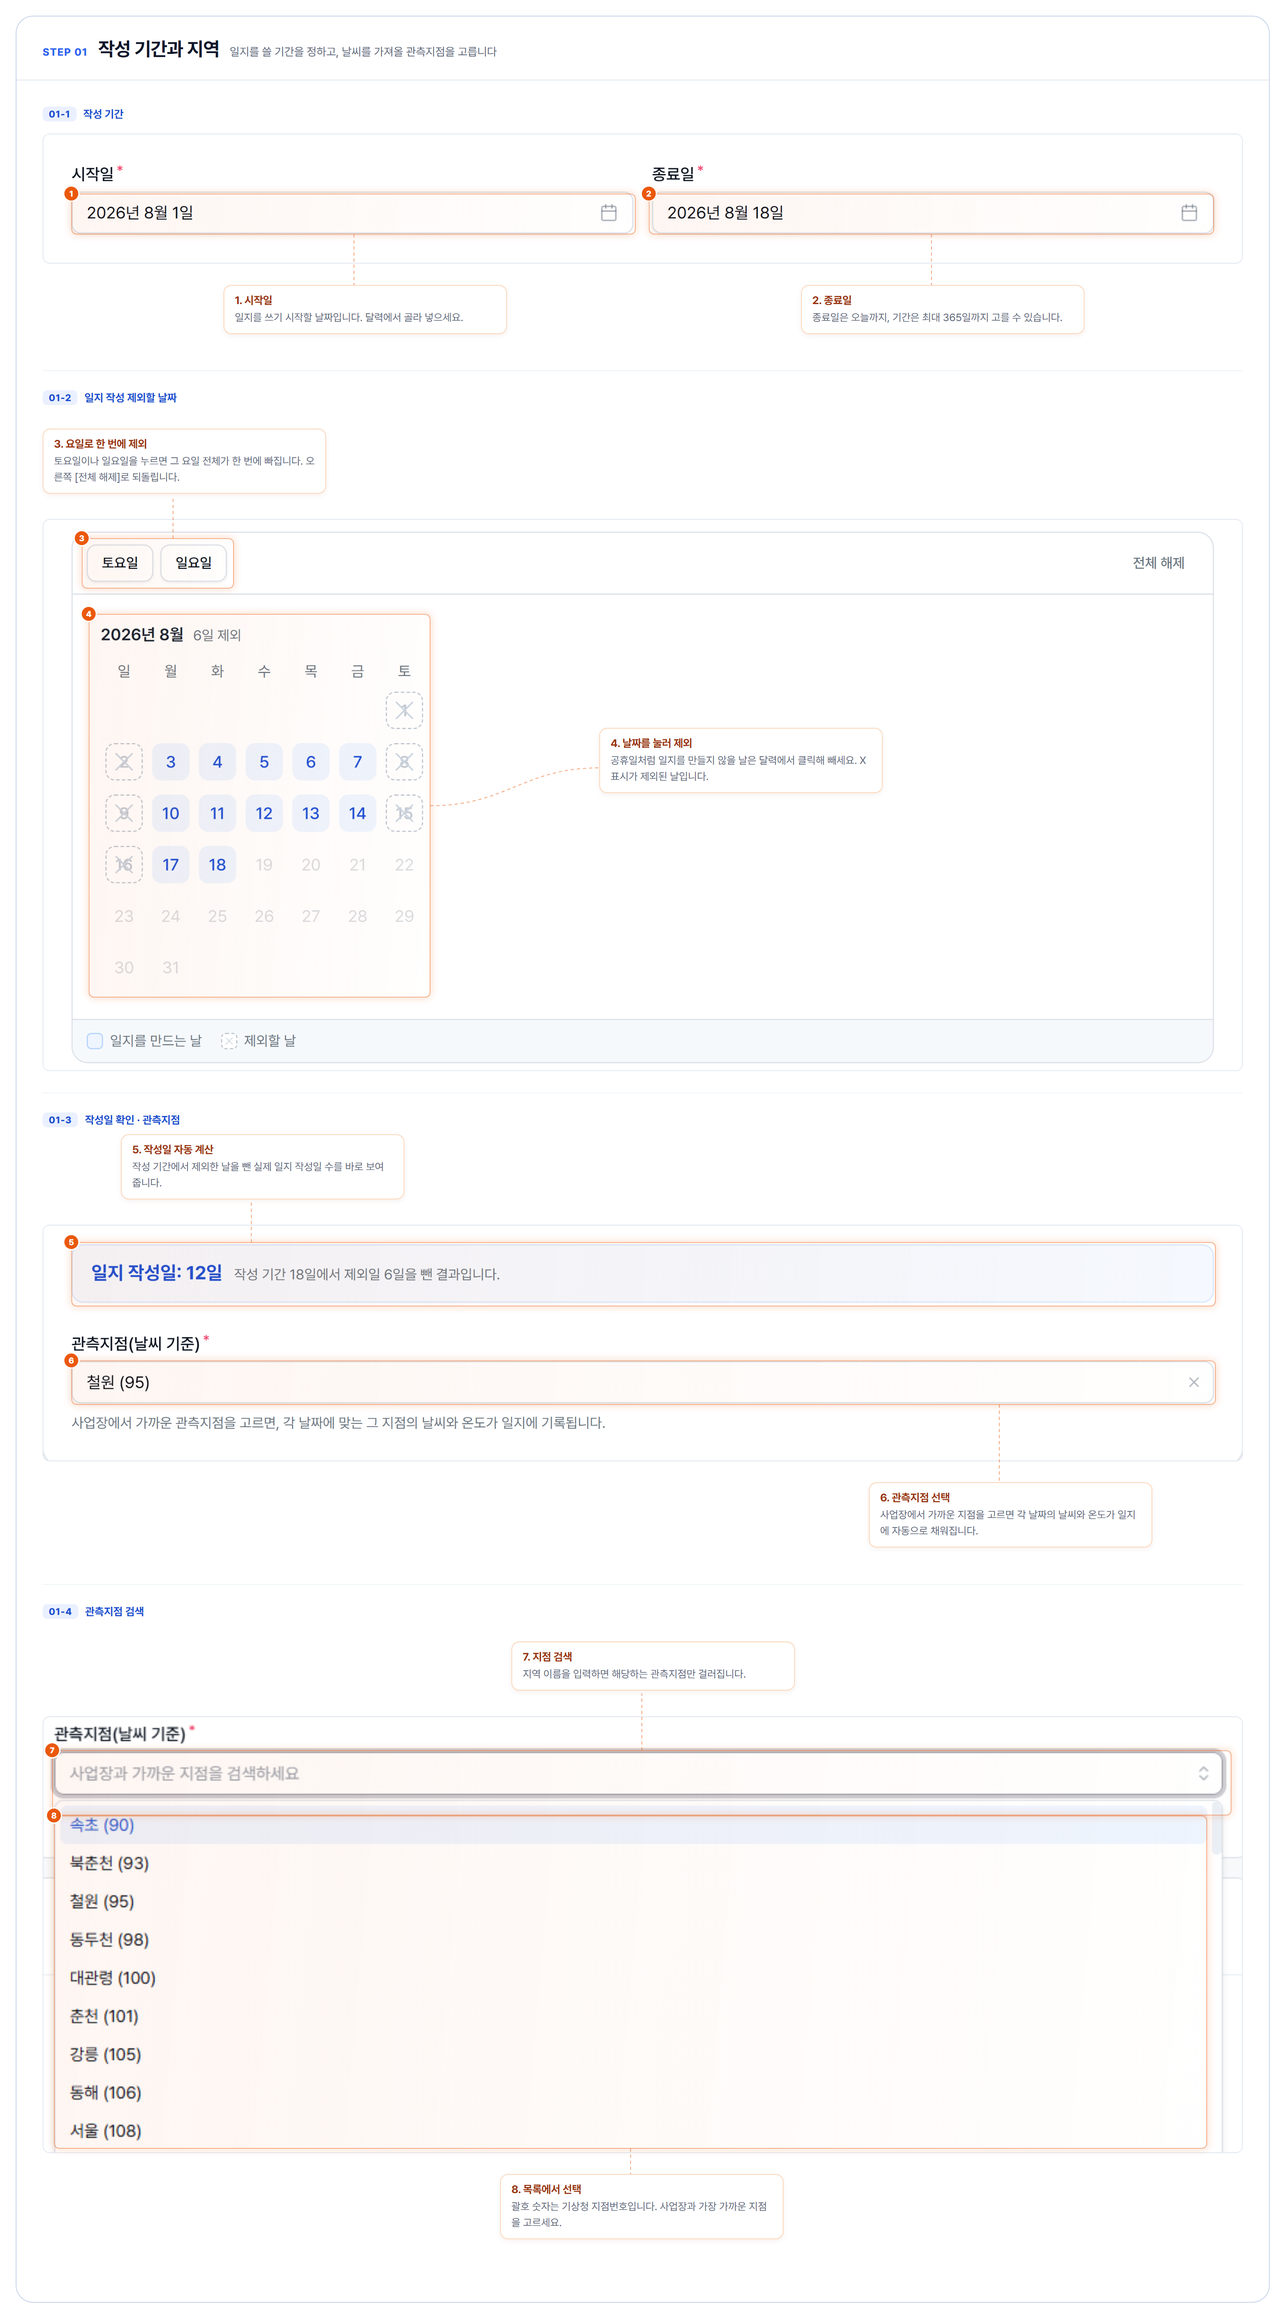
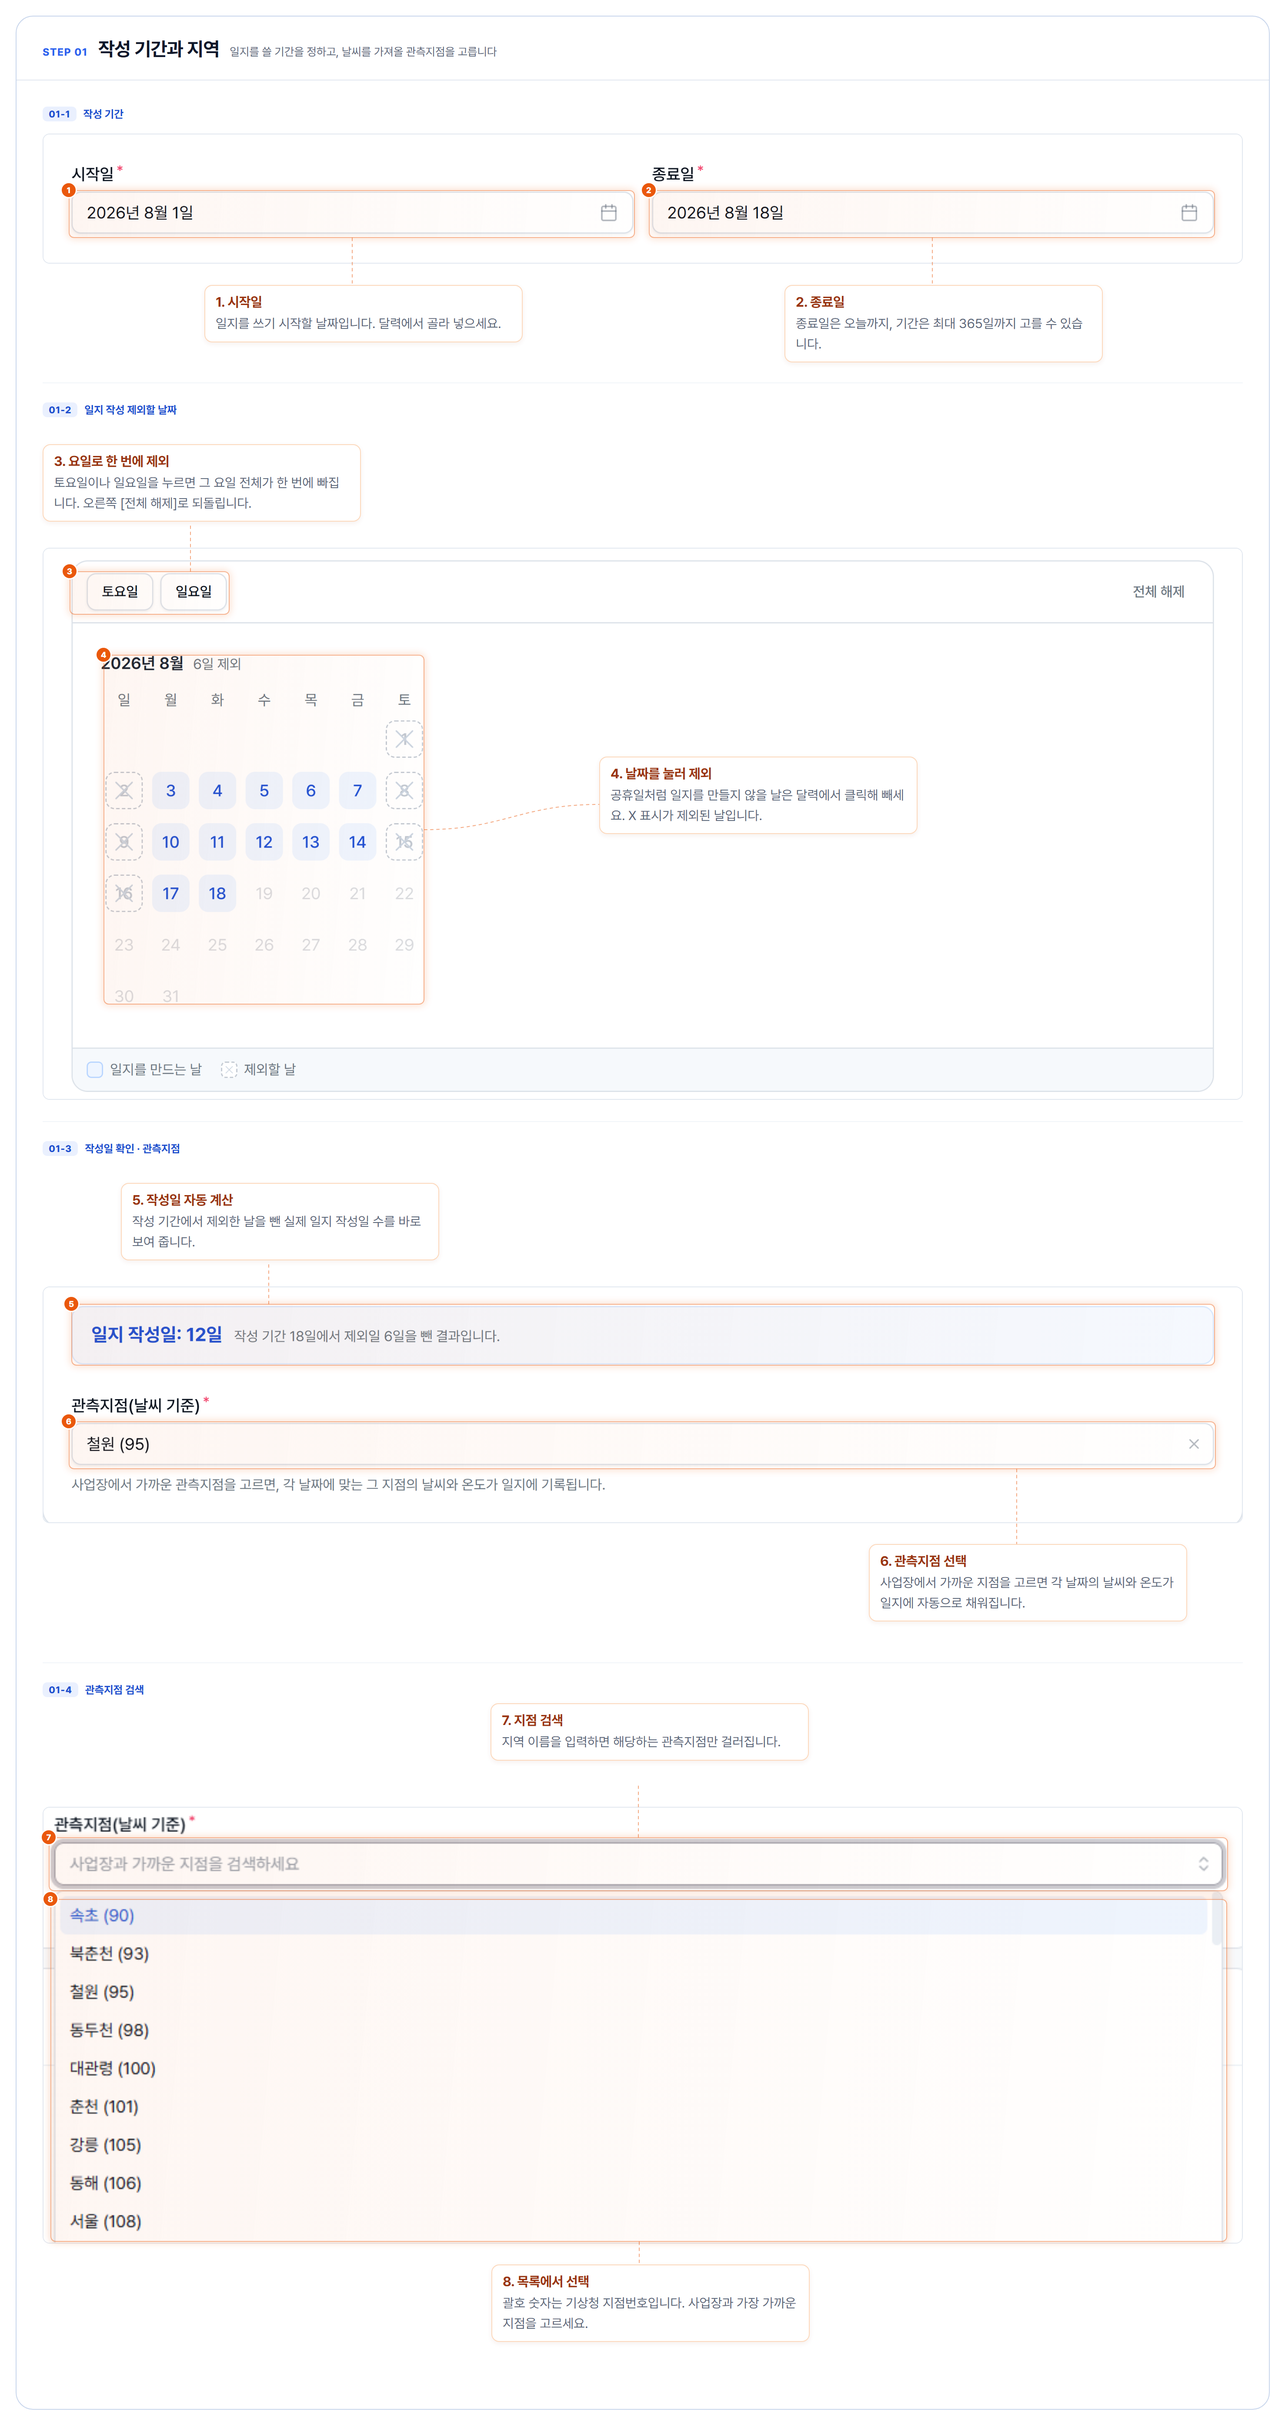
fix: step01 박스 실측 대칭 · 콜아웃 글씨 15px
- 모든 강조 박스를 요소 실측 경계로 교체(snap=False), 사면 2px 균일
- 콜아웃 h3 15.5/본문 15px, CW 340·CPL 18·LH 24 (tb 전용 estH2)

diff --git a/인허가 서대리_미리보기 페이지 작성/폐수일지/_tmp_final/_x.html b/인허가 서대리_미리보기 페이지 작성/폐수일지/_tmp_final/_x.html
@@ -66,6 +66,9 @@
 .ag{width:1440px}
 .ag-head{padding:24px 30px 22px}
 .ag-head h2{font-size:22px}
+/* 안내 문구(콜아웃)는 갑지보다 3px 크게 */
+.ag-co h3{font-size:15.5px;margin:0 0 4px}
+.ag-co p{font-size:15px}
 
 html,body{margin:0;padding:36px;background:#fff}</style></head><body><div id="root"></div>
 <script>/* annotation-guide.js · 데이터(JSON) → 주석 패널 HTML 렌더러. 의존성 없음.
@@ -206,6 +209,9 @@ html,body{margin:0;padding:36px;background:#fff}</style></head><body><div id="ro
      위 밴드 콜아웃은 estH 추정으로 놓고 AG_fixBands() 가 실측 높이로 레인 아래 변에 다시 붙인다. */
   function tbPanel(sec, group, gi) {
     const { IW, CW, LANE, CPL } = LAYOUT.tb;
+    // tb 는 콜아웃 글씨를 키울 수 있어(LH=줄높이) 높이 추정을 따로 한다
+    const LH = LAYOUT.tb.LH || 19;
+    const estH2 = (t) => 38 + Math.max(1, Math.ceil(String(t).length / CPL)) * LH;
     const k = IW / group.crop[2], IH = Math.round(group.crop[3] * k);
     const rows = toRows(sec, group, k);
     const free = rows.filter((r) => r.f.cpos);
@@ -217,7 +223,7 @@ html,body{margin:0;padding:36px;background:#fff}</style></head><body><div id="ro
       rs.forEach((r) => {
         const want = r.f.cox !== undefined ? r.f.cox
           : Math.max(0, Math.min(IW - CW, Math.round(r.x + r.w / 2 - CW / 2)));
-        r.ch = estH(r.f.desc, CPL);
+        r.ch = estH2(r.f.desc);
         let li = 0;
         for (;; li++) { const l = lanes[li] || (lanes[li] = { right: -12, h: 0 }); if (want >= l.right + 12) break; }
         const l = lanes[li];
@@ -239,7 +245,7 @@ html,body{margin:0;padding:36px;background:#fff}</style></head><body><div id="ro
     B.rs.forEach((r) => { r.ct = B.lanes[r.lane].top; });
     let H = B.lanes.length ? ly - 14 : iy + IH;
     free.forEach((r) => {
-      r.ch = estH(r.f.desc, CPL);
+      r.ch = estH2(r.f.desc);
       r.cx = r.f.cpos[0]; r.ct = iy + r.f.cpos[1];
       H = Math.max(H, r.ct + r.ch);
     });
@@ -384,4 +390,4 @@ html,body{margin:0;padding:36px;background:#fff}</style></head><body><div id="ro
   global.AG_NUM = NUM;
 })(typeof window !== 'undefined' ? window : globalThis);
 </script>
-<script>AG_LAYOUT.tb.IW=1378;AG_LAYOUT.tb.CW=300;AG_LAYOUT.tb.LANE=26;AG_LAYOUT.tb.CPL=20;const DATA={"key": "s01", "src": "폐수일지-입력후1.png", "step": "STEP 01", "title": "작성 기간과 지역", "sub": "일지를 쓸 기간을 정하고, 날씨를 가져올 관측지점을 고릅니다", "xcrop": [438, 1464], "f": [{"b": [463, 544, 480, 32], "band": "bottom", "title": "시작일", "desc": "일지를 쓰기 시작할 날짜입니다. 달력에서 골라 넣으세요."}, {"b": [958, 544, 481, 32], "band": "bottom", "title": "종료일", "desc": "종료일은 오늘까지, 기간은 최대 365일까지 고를 수 있습니다."}, {"b": [472, 681, 127, 40], "snap": false, "band": "top", "title": "요일로 한 번에 제외", "desc": "토요일이나 일요일을 누르면 그 요일 전체가 한 번에 빠집니다. 오른쪽 [전체 해제]로 되돌립니다."}, {"b": [478, 746, 290, 325], "snap": false, "cpos": [640, 240], "title": "날짜를 눌러 제외", "desc": "공휴일처럼 일지를 만들지 않을 날은 달력에서 클릭해 빼세요. X 표시가 제외된 날입니다."}, {"b": [463, 1145, 977, 52], "band": "top", "cox": 90, "title": "작성일 자동 계산", "desc": "작성 기간에서 제외한 날을 뺀 실제 일지 작성일 수를 바로 보여 줍니다."}, {"b": [463, 1246, 977, 35], "band": "bottom", "cox": 950, "title": "관측지점 선택", "desc": "사업장에서 가까운 지점을 고르면 각 날짜의 날씨와 온도가 일지에 자동으로 채워집니다."}, {"b": [9, 29, 984, 52], "src": "1-관측지점자료.PNG", "scale": 1, "band": "top", "title": "지점 검색", "desc": "지역 이름을 입력하면 해당하는 관측지점만 걸러집니다."}, {"b": [10, 84, 962, 276], "snap": false, "src": "1-관측지점자료.PNG", "scale": 1, "band": "bottom", "title": "목록에서 선택", "desc": "괄호 숫자는 기상청 지점번호입니다. 사업장과 가장 가까운 지점을 고르세요."}], "g": [{"f": [0, 1], "mode": "tb", "label": "작성 기간", "ycrop": [492, 602], "img": "s01-1.png", "crop": [438, 492, 1026, 110]}, {"f": [2, 3], "mode": "tb", "label": "일지 작성 제외할 날짜", "ycrop": [664, 1135], "img": "s01-2.png", "crop": [438, 664, 1026, 471]}, {"f": [4, 5], "mode": "tb", "label": "작성일 확인 · 관측지점", "ycrop": [1129, 1330], "img": "s01-3.png", "crop": [438, 1129, 1026, 201]}, {"f": [6, 7], "mode": "tb", "label": "관측지점 검색", "src": "1-관측지점자료.PNG", "scale": 1, "ycrop": [0, 364], "img": "s01-4.png", "crop": [0, 0, 1003, 364]}], "cw": 1650, "ch": 5461, "imgBase": "file:///C:/Users/USER/OneDrive/바탕 화면/py/tools/인허가 서대리_미리보기 페이지 작성/폐수일지/미리보기_폐수일지_최종/img/"};document.getElementById("root").innerHTML=renderGuideSection(DATA);AG_fixWires();AG_fixBands();AG_fixFlows(document, DATA);</script></body></html>
+<script>AG_LAYOUT.tb.IW=1378;AG_LAYOUT.tb.CW=340;AG_LAYOUT.tb.LANE=26;AG_LAYOUT.tb.CPL=18;AG_LAYOUT.tb.LH=24;const DATA={"key": "s01", "src": "폐수일지-입력후1.png", "step": "STEP 01", "title": "작성 기간과 지역", "sub": "일지를 쓸 기간을 정하고, 날씨를 가져올 관측지점을 고릅니다", "xcrop": [438, 1464], "f": [{"b": [461, 541, 482, 38], "snap": false, "band": "bottom", "title": "시작일", "desc": "일지를 쓰기 시작할 날짜입니다. 달력에서 골라 넣으세요."}, {"b": [958, 541, 482, 38], "snap": false, "band": "bottom", "title": "종료일", "desc": "종료일은 오늘까지, 기간은 최대 365일까지 고를 수 있습니다."}, {"b": [462, 685, 134, 34], "snap": false, "band": "top", "title": "요일로 한 번에 제외", "desc": "토요일이나 일요일을 누르면 그 요일 전체가 한 번에 빠집니다. 오른쪽 [전체 해제]로 되돌립니다."}, {"b": [491, 756, 272, 296], "snap": false, "cpos": [640, 240], "title": "날짜를 눌러 제외", "desc": "공휴일처럼 일지를 만들지 않을 날은 달력에서 클릭해 빼세요. X 표시가 제외된 날입니다."}, {"b": [463, 1145, 976, 50], "snap": false, "band": "top", "cox": 90, "title": "작성일 자동 계산", "desc": "작성 기간에서 제외한 날을 뺀 실제 일지 작성일 수를 바로 보여 줍니다."}, {"b": [461, 1245, 979, 38], "snap": false, "band": "bottom", "cox": 950, "title": "관측지점 선택", "desc": "사업장에서 가까운 지점을 고르면 각 날짜의 날씨와 온도가 일지에 자동으로 채워집니다."}, {"b": [6, 26, 984, 42], "snap": false, "src": "1-관측지점자료.PNG", "scale": 1, "band": "top", "title": "지점 검색", "desc": "지역 이름을 입력하면 해당하는 관측지점만 걸러집니다."}, {"b": [7, 78, 982, 284], "snap": false, "src": "1-관측지점자료.PNG", "scale": 1, "band": "bottom", "title": "목록에서 선택", "desc": "괄호 숫자는 기상청 지점번호입니다. 사업장과 가장 가까운 지점을 고르세요."}], "g": [{"f": [0, 1], "mode": "tb", "label": "작성 기간", "ycrop": [492, 602], "img": "s01-1.png", "crop": [438, 492, 1026, 110]}, {"f": [2, 3], "mode": "tb", "label": "일지 작성 제외할 날짜", "ycrop": [664, 1135], "img": "s01-2.png", "crop": [438, 664, 1026, 471]}, {"f": [4, 5], "mode": "tb", "label": "작성일 확인 · 관측지점", "ycrop": [1129, 1330], "img": "s01-3.png", "crop": [438, 1129, 1026, 201]}, {"f": [6, 7], "mode": "tb", "label": "관측지점 검색", "src": "1-관측지점자료.PNG", "scale": 1, "ycrop": [0, 364], "img": "s01-4.png", "crop": [0, 0, 1003, 364]}], "cw": 1650, "ch": 5461, "imgBase": "file:///C:/Users/USER/OneDrive/바탕 화면/py/tools/인허가 서대리_미리보기 페이지 작성/폐수일지/미리보기_폐수일지_최종/img/"};document.getElementById("root").innerHTML=renderGuideSection(DATA);AG_fixWires();AG_fixBands();AG_fixFlows(document, DATA);</script></body></html>

diff --git a/인허가 서대리_미리보기 페이지 작성/갑지/자료/화면캡처/annotate/work/annotation-guide.js b/인허가 서대리_미리보기 페이지 작성/갑지/자료/화면캡처/annotate/work/annotation-guide.js
@@ -136,6 +136,9 @@
      위 밴드 콜아웃은 estH 추정으로 놓고 AG_fixBands() 가 실측 높이로 레인 아래 변에 다시 붙인다. */
   function tbPanel(sec, group, gi) {
     const { IW, CW, LANE, CPL } = LAYOUT.tb;
+    // tb 는 콜아웃 글씨를 키울 수 있어(LH=줄높이) 높이 추정을 따로 한다
+    const LH = LAYOUT.tb.LH || 19;
+    const estH2 = (t) => 38 + Math.max(1, Math.ceil(String(t).length / CPL)) * LH;
     const k = IW / group.crop[2], IH = Math.round(group.crop[3] * k);
     const rows = toRows(sec, group, k);
     const free = rows.filter((r) => r.f.cpos);
@@ -147,7 +150,7 @@
       rs.forEach((r) => {
         const want = r.f.cox !== undefined ? r.f.cox
           : Math.max(0, Math.min(IW - CW, Math.round(r.x + r.w / 2 - CW / 2)));
-        r.ch = estH(r.f.desc, CPL);
+        r.ch = estH2(r.f.desc);
         let li = 0;
         for (;; li++) { const l = lanes[li] || (lanes[li] = { right: -12, h: 0 }); if (want >= l.right + 12) break; }
         const l = lanes[li];
@@ -169,7 +172,7 @@
     B.rs.forEach((r) => { r.ct = B.lanes[r.lane].top; });
     let H = B.lanes.length ? ly - 14 : iy + IH;
     free.forEach((r) => {
-      r.ch = estH(r.f.desc, CPL);
+      r.ch = estH2(r.f.desc);
       r.cx = r.f.cpos[0]; r.ct = iy + r.f.cpos[1];
       H = Math.max(H, r.ct + r.ch);
     });

diff --git a/인허가 서대리_미리보기 페이지 작성/폐수일지/sections.py b/인허가 서대리_미리보기 페이지 작성/폐수일지/sections.py
@@ -13,6 +13,9 @@
   - 섹션 카드 세로 경계(입력후1, CSS): ①작성기간 268~1334 ②기본설정 1350~1995
     ③시설가동 2011~2966 ④용수폐수 2983~3667 ⑤전력 3684~4111 ⑥슬러지 4128~5316
 
+박스 좌표 원칙: 요소의 **실측 경계**를 그대로 넣는다(스냅 의존 금지 · snap=False).
+  렌더러가 사면에 균일하게 2px 를 띄우므로, 실측만 정확하면 여백이 대칭이 된다.
+
 항목(f) 옵션 · tb 모드
   b=[x,y,w,h]  대상 시드(스냅으로 보정). snap=False 면 그대로.
   band='top'|'bottom'  콜아웃을 위/아래 밴드 어디에 둘지. 생략하면 자동.
@@ -35,26 +38,26 @@ S = [
       xcrop=(438, 1464),
       f=[
         # ── 패널 1 · 작성 기간 ──────────────────────────────
-        dict(b=[463, 544, 480, 32], band='bottom', title='시작일',
+        dict(b=[461, 541, 482, 38], snap=False, band='bottom', title='시작일',
              desc='일지를 쓰기 시작할 날짜입니다. 달력에서 골라 넣으세요.'),
-        dict(b=[958, 544, 481, 32], band='bottom', title='종료일',
+        dict(b=[958, 541, 482, 38], snap=False, band='bottom', title='종료일',
              desc='종료일은 오늘까지, 기간은 최대 365일까지 고를 수 있습니다.'),
         # ── 패널 2 · 제외일 달력 ────────────────────────────
-        dict(b=[472, 681, 127, 40], snap=False, band='top', title='요일로 한 번에 제외',
+        dict(b=[462, 685, 134, 34], snap=False, band='top', title='요일로 한 번에 제외',
              desc='토요일이나 일요일을 누르면 그 요일 전체가 한 번에 빠집니다. 오른쪽 [전체 해제]로 되돌립니다.'),
         # 달력 콜아웃은 달력 카드 오른쪽 빈 공간에 자유 배치(cpos)
-        dict(b=[478, 746, 290, 325], snap=False, cpos=[640, 240], title='날짜를 눌러 제외',
+        dict(b=[491, 756, 272, 296], snap=False, cpos=[640, 240], title='날짜를 눌러 제외',
              desc='공휴일처럼 일지를 만들지 않을 날은 달력에서 클릭해 빼세요. X 표시가 제외된 날입니다.'),
         # ── 패널 3 · 작성일 확인 · 관측지점 ─────────────────
-        dict(b=[463, 1145, 976, 52], band='top', cox=90, title='작성일 자동 계산',
+        dict(b=[463, 1145, 976, 50], snap=False, band='top', cox=90, title='작성일 자동 계산',
              desc='작성 기간에서 제외한 날을 뺀 실제 일지 작성일 수를 바로 보여 줍니다.'),
-        dict(b=[463, 1246, 976, 34], band='bottom', cox=950, title='관측지점 선택',
+        dict(b=[461, 1245, 979, 38], snap=False, band='bottom', cox=950, title='관측지점 선택',
              desc='사업장에서 가까운 지점을 고르면 각 날짜의 날씨와 온도가 일지에 자동으로 채워집니다.'),
         # ── 패널 4 · 관측지점 검색(보조컷) ──────────────────
-        dict(b=[10, 33, 983, 47], src='1-관측지점자료.PNG', scale=1, band='top',
+        dict(b=[6, 26, 984, 42], snap=False, src='1-관측지점자료.PNG', scale=1, band='top',
              title='지점 검색',
              desc='지역 이름을 입력하면 해당하는 관측지점만 걸러집니다.'),
-        dict(b=[10, 84, 962, 276], snap=False, src='1-관측지점자료.PNG', scale=1,
+        dict(b=[7, 78, 982, 284], snap=False, src='1-관측지점자료.PNG', scale=1,
              band='bottom', title='목록에서 선택',
              desc='괄호 숫자는 기상청 지점번호입니다. 사업장과 가장 가까운 지점을 고르세요.'),
       ],

diff --git a/인허가 서대리_미리보기 페이지 작성/폐수일지/_build_pesu.py b/인허가 서대리_미리보기 페이지 작성/폐수일지/_build_pesu.py
@@ -35,7 +35,9 @@ CHROME = M.CHROME
 
 # ── 카드 규격 (갑지 gen_final 과 동일) ─────────────────────────────
 CARD_W = 1440
-TB = dict(IW=1378, CW=300, LANE=26, CPL=20)   # tb 모드: 이미지 전폭 + 위·아래 콜아웃 밴드
+# tb 모드: 이미지 전폭 + 위·아래 콜아웃 밴드. 콜아웃 글씨는 갑지보다 3px 큼(15px) →
+# 줄당 글자수 CPL 과 줄높이 LH 도 그에 맞춘다.
+TB = dict(IW=1378, CW=340, LANE=26, CPL=18, LH=24)
 assert TB['IW'] == CARD_W - 62                # 테두리 2 + 좌우 패딩 60
 
 DEFAULT_SCALE = 3      # 원본 캡처는 3배. 목록등자료 보조컷은 scale=1 로 지정.
@@ -145,10 +147,13 @@ CSS_OVERRIDE = """
 .ag{width:%(card)dpx}
 .ag-head{padding:24px 30px 22px}
 .ag-head h2{font-size:22px}
+/* 안내 문구(콜아웃)는 갑지보다 3px 크게 */
+.ag-co h3{font-size:15.5px;margin:0 0 4px}
+.ag-co p{font-size:15px}
 """ % dict(card=CARD_W)
 
-JS_OVERRIDE = ("AG_LAYOUT.tb.IW=%(IW)d;AG_LAYOUT.tb.CW=%(CW)d;"
-               "AG_LAYOUT.tb.LANE=%(LANE)d;AG_LAYOUT.tb.CPL=%(CPL)d;") % TB
+JS_OVERRIDE = ("AG_LAYOUT.tb.IW=%(IW)d;AG_LAYOUT.tb.CW=%(CW)d;AG_LAYOUT.tb.LANE=%(LANE)d;"
+               "AG_LAYOUT.tb.CPL=%(CPL)d;AG_LAYOUT.tb.LH=%(LH)d;") % TB
 
 
 def render(sec):
